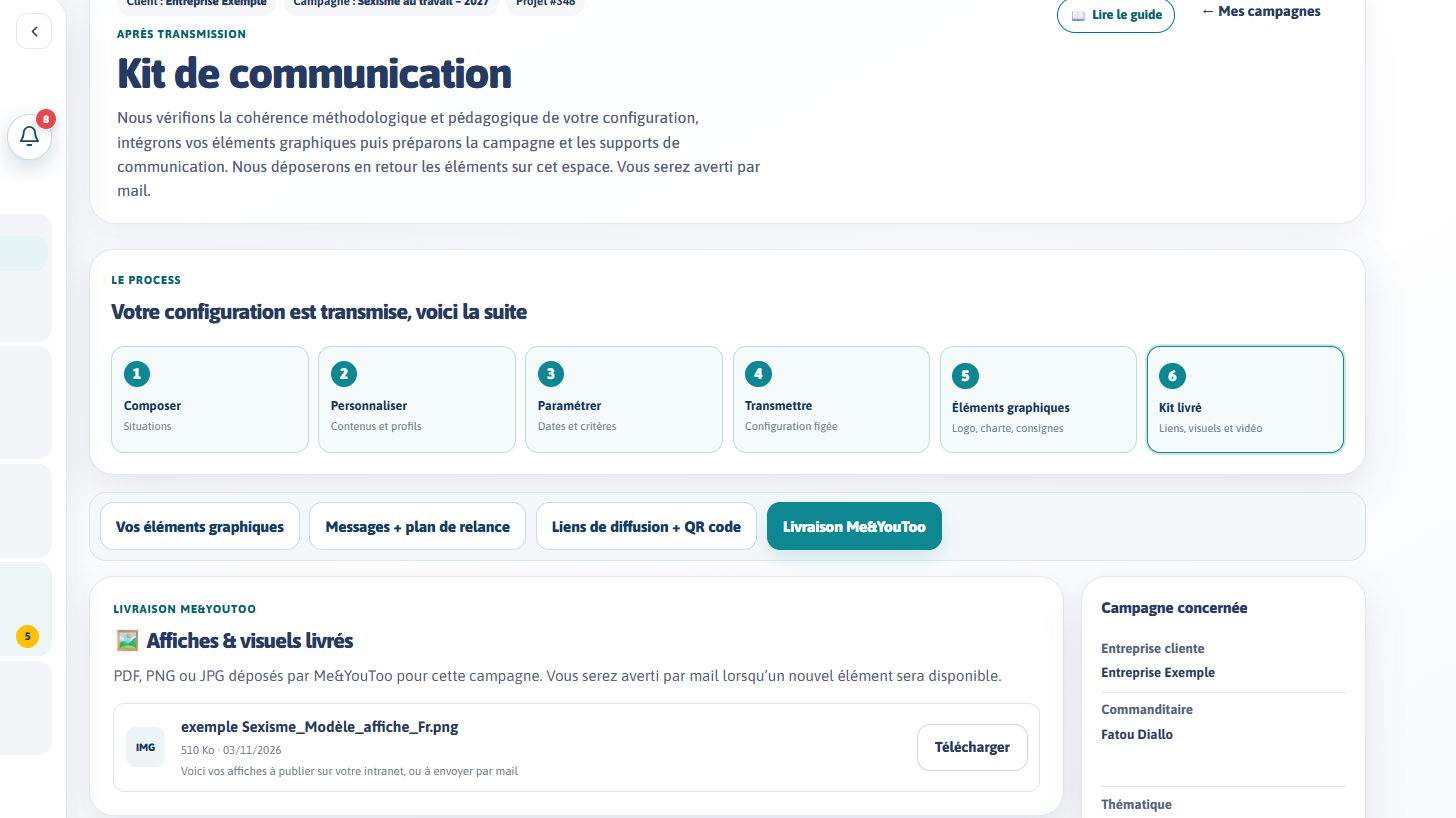
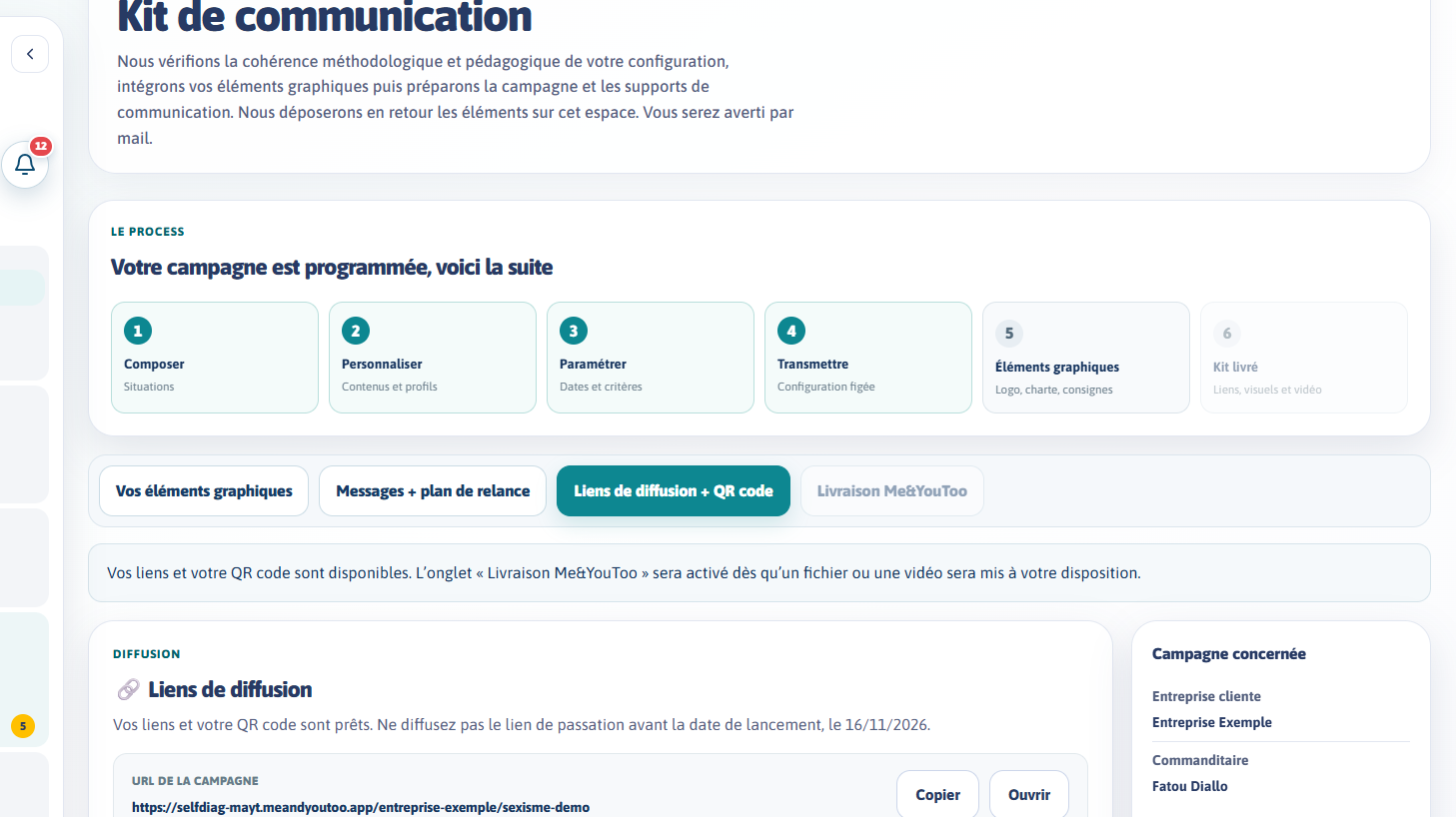
Tutoriel Diffuser : nouveau QR code, onglets du kit expliqués, Livraison grisée

diff --git a/tutos/diffuser/index.html b/tutos/diffuser/index.html
@@ -12,21 +12,24 @@
 <script>
 // Captures du 3 novembre 2026 : compte de démonstration Fatou Diallo, Entreprise Exemple, campagne #348
 // (Sexisme au travail – 2027, programmée) ; adresse e-mail de la commanditaire masquée.
+// Captures 1 et 5 refaites le 4 novembre 2026 (nouveau QR code) ; la 1 vient de la campagne #350, sans livraison : l’onglet « Livraison Me&YouToo » y est grisé.
 // Cadres en % de la capture : [gauche, haut, largeur, hauteur]. Pour caler la voix : audio:'voix.mp3' et « at » (secondes) sur chaque plan.
 window.TUTO={
   eyebrow:'Tutoriel · Après la transmission',
   title:'Préparer la communication et diffuser sa campagne',
-  intro:'Logo et charte, plan de relance, messages prêts à copier, liens et QR code, supports livrés : tout votre kit de communication. Environ 1 minute 30.',
+  intro:'Logo et charte, plan de relance, messages prêts à copier, liens et QR code, supports livrés : tout votre kit de communication. Environ 1 minute 50.',
   scenes:[
-    {img:'ecran-1.png',box:[8,3,45,21],text:'Une fois votre campagne transmise, le kit de communication rassemble tout ce qu’il faut pour la diffuser auprès de vos collaborateurs.'},
-    {img:'ecran-1.png',box:[7.6,42.5,84.8,13],text:'Le Studio vous montre où vous en êtes, étape par étape, de la composition de votre diagnostic jusqu’au kit livré par Me&YouToo.'},
+    {img:'ecran-1.png',box:[7.6,0.5,47.5,18.5],text:'Une fois votre campagne transmise, le kit de communication rassemble tout ce qu’il faut pour la diffuser auprès de vos collaborateurs.'},
+    {img:'ecran-1.png',box:[7.4,36.4,89.6,14.4],text:'Le Studio vous montre où vous en êtes, étape par étape, de la composition de votre diagnostic jusqu’au kit livré par Me&YouToo.'},
+    {img:'ecran-1.png',box:[6.4,56.2,61.5,7.4],text:'Le kit s’organise en quatre onglets : vos éléments graphiques, les messages et le plan de relance, les liens et le QR code, et la livraison Me&YouToo.'},
+    {img:'ecran-1.png',box:[54.6,56.3,13.2,7.1],text:'L’onglet « Livraison Me&YouToo » reste grisé tant que notre équipe n’a rien déposé. Il s’active dès qu’un fichier ou une vidéo est à votre disposition.'},
     {img:'ecran-2.png',box:[7.8,11.8,64.6,29],text:'Premier onglet : déposez votre logo, votre charte graphique et vos consignes. Me&YouToo prépare les supports à vos couleurs.'},
     {img:'ecran-2.png',box:[7.8,62.4,64.6,30],text:'Glissez vos fichiers dans cette zone, ou utilisez « Envoyer un fichier volumineux » si vos documents sont trop lourds pour être déposés ici.'},
     {img:'ecran-3.png',box:[7.8,11.8,64.6,54.7],text:'Deuxième onglet : le plan de relance conseillé, avec les dates calculées pour votre campagne. Vous savez ainsi quand communiquer, du lancement à la clôture.'},
     {img:'ecran-4.png',box:[7.8,1.4,64.6,97.6],text:'Des messages prêts à copier : e-mail de lancement, message aux managers, relances, Teams ou Slack, intranet. Ils contiennent déjà le nom, les dates et le lien de votre campagne.'},
-    {img:'ecran-5.png',box:[7.8,11.8,64.6,41.8],text:'Troisième onglet : le lien de votre campagne et celui de vos résultats. Ne diffusez pas le lien avant la date de lancement.'},
-    {img:'ecran-5.png',box:[7.8,56.4,64.6,43.6],text:'Le QR code est créé automatiquement à partir du lien de votre campagne. Téléchargez-le pour l’intégrer à vos affiches, à votre intranet ou à vos supports de lancement.'},
-    {img:'ecran-6.png',box:[7.8,17.8,64.6,66.4],text:'Dernier onglet : les affiches, visuels et vidéos préparés par Me&YouToo. Vous êtes averti par e-mail dès qu’un nouvel élément est disponible.'}
+    {img:'ecran-5.png',box:[5.7,10.6,65.6,38.6],text:'Troisième onglet : le lien de votre campagne et celui de vos résultats. Ne diffusez pas le lien avant la date de lancement.'},
+    {img:'ecran-5.png',box:[5.7,50.9,65.6,46.2],text:'Le QR code est créé automatiquement à partir du lien de votre campagne, avec votre logo s’il est renseigné dans votre compte. Téléchargez-le en PNG, ou en SVG pour l’impression.'},
+    {img:'ecran-6.png',box:[7.8,17.8,64.6,66.4],text:'Dernier onglet, une fois activé : les affiches, visuels et vidéos préparés par Me&YouToo. Vous êtes averti par e-mail dès qu’un nouvel élément est disponible.'}
   ],
   end:{title:'Votre kit est prêt',text:'Diffusez le lien à la date de lancement et suivez la participation depuis Mes campagnes. Une question ? Le chat et l’équipe Me&YouToo sont là pour vous.'}
 };
